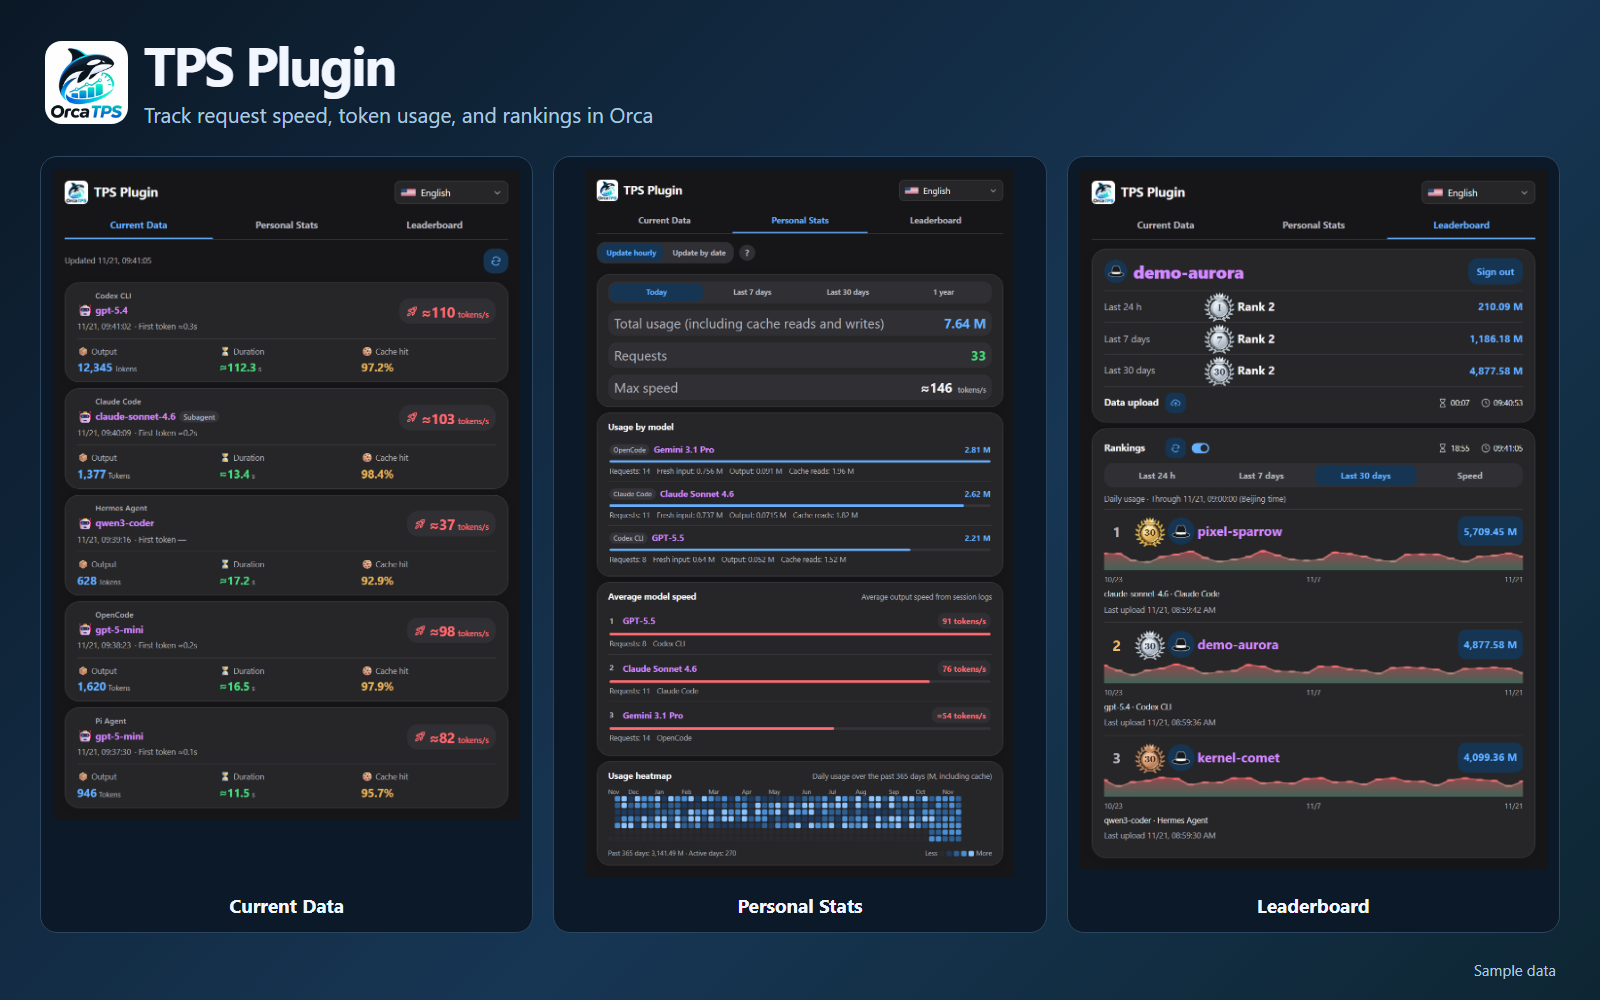
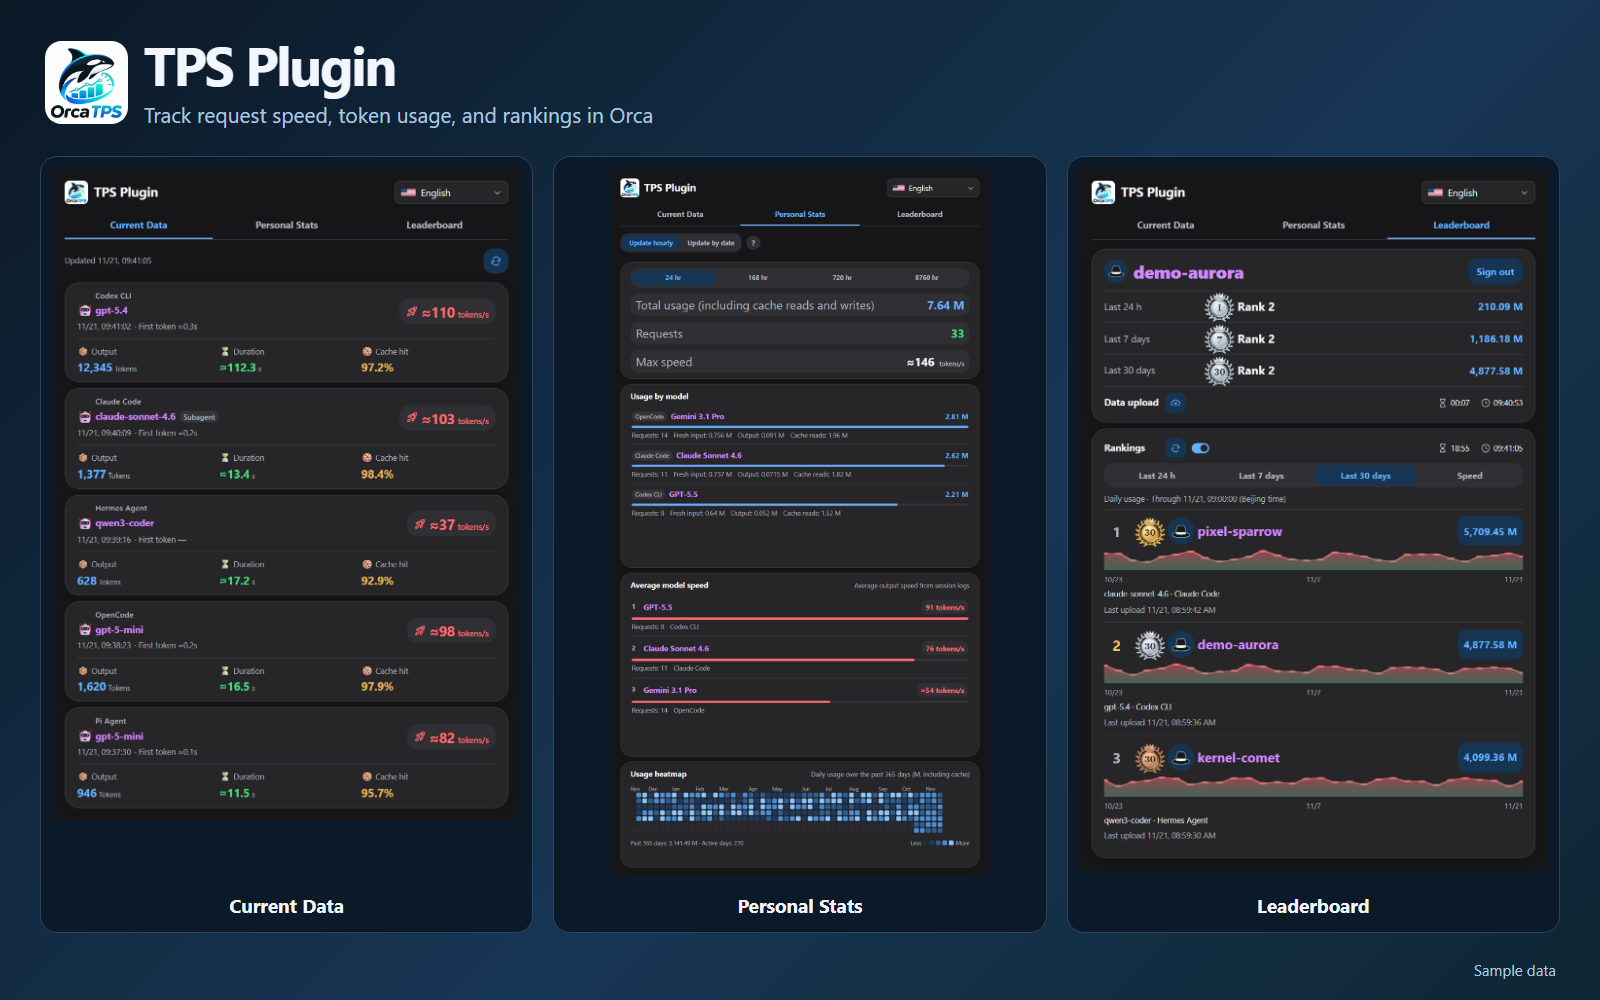
ui: refine Personal Stats periods and panel layout
Display each period in hours or days. Set a fixed 180px heatmap height and split the remaining space between the two scrollable rankings.

Changed region(s): [[0.375, 0.155, 0.625, 0.868]]

diff --git a/src/panel.html b/src/panel.html
@@ -130,6 +130,19 @@
     .panel-tab:focus-visible, .panel-view:focus-visible { outline: 2px solid var(--blue); outline-offset: 2px; }
     .panel-view { margin-top: 12px; }
     #usage, #leaderboard { display: grid; gap: 8px; }
+    #panel:has(> #usage:not([hidden])) {
+      display: grid; grid-template: auto auto minmax(0, 1fr) / minmax(0, 1fr);
+      block-size: calc(100dvh - 32px);
+    }
+    #usage { grid-template: auto auto minmax(0, 1fr) / minmax(0, 1fr); min-block-size: 0; }
+    .usage-breakdown {
+      display: grid; grid-template-rows: repeat(2, minmax(112px, 1fr)) 180px; gap: 8px;
+      min-inline-size: 0;
+    }
+    .usage-ranking, .heat { display: grid; min-inline-size: 0; }
+    .usage-ranking { grid-template-rows: auto minmax(0, 1fr); }
+    .usage-scroll { min-inline-size: 0; overflow-y: auto; scrollbar-width: thin; }
+    .usage-scroll:focus-visible { outline: 2px solid var(--blue); outline-offset: -2px; }
     .section-head { display: flex; align-items: baseline; justify-content: space-between; flex-wrap: wrap; gap: 2px 8px; }
     .section-title { margin: 0; color: var(--ink); font-size: 13px; line-height: 1.6; font-weight: 700; }
     .section-detail { margin: 0; color: var(--muted); font-size: 11px; }
@@ -464,8 +477,8 @@
     .rank-index { flex-shrink: 0; min-width: 14px; color: var(--muted); font-size: 11px; font-weight: 700; font-variant-numeric: tabular-nums; }
     .rank-tps { flex-shrink: 0; padding: 3px 7px; border-radius: 10px; color: var(--speed); background: var(--speed-bg); font-size: 12px; font-weight: 700; font-variant-numeric: tabular-nums; }
     #speed .war-fill { background: var(--speed); }
-    .heat { position: relative; min-width: 0; }
-    .heat-scroll { direction: ltr; margin: 8px -4px 0; padding: 0 4px 4px; overflow-x: auto; overflow-y: hidden; scrollbar-width: thin; }
+    .heat { position: relative; grid-template-rows: minmax(0, 1fr); }
+    .heat-scroll { direction: ltr; margin-top: 8px; padding-bottom: 4px; overflow-x: auto; overflow-y: hidden; scrollbar-width: thin; }
     .heat-canvas { position: relative; width: max-content; }
     .heat-months { position: relative; height: 13px; color: var(--muted); font-size: 9px; }
     .heat-months span { position: absolute; top: 0; white-space: nowrap; }
@@ -485,7 +498,7 @@
     .heat-legend .lv2 { background: var(--heat-2); }
     .heat-legend .lv3 { background: var(--heat-3); }
     .heat-legend .lv4 { background: var(--heat-4); }
-    .heat-tip { position: absolute; z-index: 5; max-width: 240px; padding: 5px 8px; border-radius: 8px; background: var(--ink); color: var(--surface); font-size: 11px; line-height: 1.4; white-space: nowrap; pointer-events: none; transform: translate(-50%, -100%); box-shadow: var(--shadow); }
+    .heat-tip { position: absolute; z-index: 5; max-width: min(240px, calc(100% - 8px)); padding: 5px 8px; border-radius: 8px; background: var(--ink); color: var(--surface); font-size: 11px; line-height: 1.4; pointer-events: none; transform: translate(-50%, -100%); box-shadow: var(--shadow); }
     .heat-tip[hidden] { display: none; }
     @media (max-width: 339px) {
       .metrics { gap: 6px; }
@@ -512,6 +525,10 @@
       .ladder-rows li { --ladder-row-gap: 6px; }
       .war-totals { gap: 6px; }
       .ladder-total { padding-inline: 6px; font-size: 12px; }
+    }
+    @media (max-width: 280px) {
+      .war-period-tabs { grid-template-columns: minmax(0, .85fr) repeat(2, minmax(0, 1fr)) minmax(0, 1.15fr); gap: 2px; }
+      .war-period-tabs .war-tab { padding-inline: 1px; font-size: 10px; }
     }
     @media (prefers-reduced-motion: reduce) {
       .refresh.is-busy svg { animation: none; }
@@ -678,10 +695,10 @@
       </div>
       <section class="war" id="war" data-i18n-aria-label="usage-overview">
         <div class="war-tabs war-period-tabs" role="tablist" data-i18n-aria-label="usage-period">
-          <button class="war-tab" type="button" role="tab" data-range="today" aria-selected="true" data-testid="range-today"><span data-i18n="today"></span></button>
-          <button class="war-tab" type="button" role="tab" data-range="week" aria-selected="false" data-testid="range-week"><span data-i18n="last-seven-days"></span></button>
-          <button class="war-tab" type="button" role="tab" data-range="month" aria-selected="false" data-testid="range-month"><span data-i18n="last-thirty-days"></span></button>
-          <button class="war-tab" type="button" role="tab" data-range="year" aria-selected="false" data-testid="range-year"><span data-i18n="last-year"></span></button>
+          <button class="war-tab" type="button" role="tab" data-range="today" data-days="1" aria-selected="true" data-testid="range-today"><span data-localized-text></span></button>
+          <button class="war-tab" type="button" role="tab" data-range="week" data-days="7" aria-selected="false" data-testid="range-week"><span data-localized-text></span></button>
+          <button class="war-tab" type="button" role="tab" data-range="month" data-days="30" aria-selected="false" data-testid="range-month"><span data-localized-text></span></button>
+          <button class="war-tab" type="button" role="tab" data-range="year" data-days="365" aria-selected="false" data-testid="range-year"><span data-localized-text></span></button>
         </div>
         <div class="war-totals">
           <div class="war-stat">
@@ -698,37 +715,45 @@
           </div>
         </div>
       </section>
-      <section class="war" aria-labelledby="war-model-title">
-        <h2 class="section-title" id="war-model-title"><span data-i18n="model-usage"></span></h2>
-        <ol class="war-rows" id="war-rows" data-testid="war-rows" data-i18n-aria-label="usage-by-agent-model"></ol>
-        <p class="war-empty" id="war-empty" data-testid="war-empty" hidden><span data-i18n="empty-usage"></span></p>
-      </section>
-      <section class="war" id="speed" aria-labelledby="speed-title" data-testid="speed">
-        <div class="section-head">
-          <h2 class="section-title" id="speed-title"><span data-i18n="average-model-speed"></span></h2>
-          <p class="section-detail"><span data-i18n="model-speed-description"></span></p>
-        </div>
-        <ol class="war-rows" id="speed-rows" data-testid="speed-rows" data-i18n-aria-label="model-speed-list"></ol>
-        <p class="war-empty" id="speed-empty" data-testid="speed-empty" hidden><span data-i18n="empty-model-speeds"></span></p>
-        <p class="war-note" id="speed-note" data-testid="speed-note" data-localized-text hidden></p>
-      </section>
-      <section class="heat" id="heat" aria-labelledby="heat-title" data-testid="heatmap">
-        <div class="section-head">
-          <h2 class="section-title" id="heat-title"><span data-i18n="usage-heatmap"></span></h2>
-          <p class="section-detail" id="heat-sub"><span data-i18n="heatmap-description"></span></p>
-        </div>
-        <div class="heat-scroll" id="heat-scroll" tabindex="0">
-          <div class="heat-canvas">
-            <div class="heat-months" id="heat-months" aria-hidden="true"></div>
-            <div class="heat-grid" id="heat-grid" role="img" data-i18n-aria-label="heatmap-label"></div>
+      <div class="usage-breakdown">
+        <section class="war usage-ranking" aria-labelledby="war-model-title">
+          <h2 class="section-title" id="war-model-title"><span data-i18n="model-usage"></span></h2>
+          <div class="usage-scroll" tabindex="0" aria-labelledby="war-model-title">
+            <ol class="war-rows" id="war-rows" data-testid="war-rows" data-i18n-aria-label="usage-by-agent-model"></ol>
+            <p class="war-empty" id="war-empty" data-testid="war-empty" hidden><span data-i18n="empty-usage"></span></p>
           </div>
-        </div>
-        <div class="heat-foot">
-          <span id="heat-total" data-testid="heat-total" data-localized-text></span>
-          <span class="heat-legend" aria-hidden="true"><span data-i18n="heatmap-less"></span> <i class="lv0"></i><i class="lv1"></i><i class="lv2"></i><i class="lv3"></i><i class="lv4"></i> <span data-i18n="heatmap-more"></span></span>
-        </div>
-        <div class="heat-tip" id="heat-tip" role="tooltip" data-localized-text hidden></div>
-      </section>
+        </section>
+        <section class="war usage-ranking" id="speed" aria-labelledby="speed-title" data-testid="speed">
+          <div class="section-head">
+            <h2 class="section-title" id="speed-title"><span data-i18n="average-model-speed"></span></h2>
+            <p class="section-detail"><span data-i18n="model-speed-description"></span></p>
+          </div>
+          <div class="usage-scroll" tabindex="0" aria-labelledby="speed-title">
+            <ol class="war-rows" id="speed-rows" data-testid="speed-rows" data-i18n-aria-label="model-speed-list"></ol>
+            <p class="war-empty" id="speed-empty" data-testid="speed-empty" hidden><span data-i18n="empty-model-speeds"></span></p>
+            <p class="war-note" id="speed-note" data-testid="speed-note" data-localized-text hidden></p>
+          </div>
+        </section>
+        <section class="heat" id="heat" aria-labelledby="heat-title" data-testid="heatmap">
+          <div class="usage-scroll" tabindex="0" aria-labelledby="heat-title">
+            <div class="section-head">
+              <h2 class="section-title" id="heat-title"><span data-i18n="usage-heatmap"></span></h2>
+              <p class="section-detail" id="heat-sub"><span data-i18n="heatmap-description"></span></p>
+            </div>
+            <div class="heat-scroll" id="heat-scroll" tabindex="0">
+              <div class="heat-canvas">
+                <div class="heat-months" id="heat-months" aria-hidden="true"></div>
+                <div class="heat-grid" id="heat-grid" role="img" data-i18n-aria-label="heatmap-label"></div>
+              </div>
+            </div>
+            <div class="heat-foot">
+              <span id="heat-total" data-testid="heat-total" data-localized-text></span>
+              <span class="heat-legend" aria-hidden="true"><span data-i18n="heatmap-less"></span> <i class="lv0"></i><i class="lv1"></i><i class="lv2"></i><i class="lv3"></i><i class="lv4"></i> <span data-i18n="heatmap-more"></span></span>
+            </div>
+          </div>
+          <div class="heat-tip" id="heat-tip" role="tooltip" data-localized-text hidden></div>
+        </section>
+      </div>
     </section>
     <section class="panel-view" id="current-data" role="tabpanel" aria-labelledby="tab-current" tabindex="0" hidden>
       <div class="panel-header">
@@ -1196,9 +1221,14 @@
       }
       function renderUsage() {
         if (disposed || usageGroup.hidden) return;
-        const windows = usageMode === 'hourly' ? usageSummary?.hourly?.windows : usageSummary?.windows;
+        const hourly = usageMode === 'hourly';
+        const windows = hourly ? usageSummary?.hourly?.windows : usageSummary?.windows;
         const range = windows?.[usageRange] ?? null;
+        const periodFormat = { style: 'unit', unit: hourly ? 'hour' : 'day', unitDisplay: 'short', useGrouping: false };
         for (const tab of usageRangeTabs) {
+          const days = Number(tab.dataset.days);
+          const label = locale.number(hourly ? days * 24 : days, periodFormat);
+          if (tab.firstElementChild.textContent !== label) tab.firstElementChild.textContent = label;
           tab.setAttribute('aria-selected', String(tab.dataset.range === usageRange));
         }
         byId('war-tokens').textContent = range ? formatMillionTokens(range.tokens) : '—';
@@ -1388,7 +1418,7 @@
         else heatTip.hidden = true;
       });
       byId('heat-grid').addEventListener('pointerleave', () => { heatTip.hidden = true; });
-      byId('heat-scroll').addEventListener('scroll', () => { heatTip.hidden = true; }, { passive: true });
+      byId('heat').addEventListener('scroll', () => { heatTip.hidden = true; }, { capture: true, passive: true });
       usageGroup.addEventListener('tps-view-opened', () => {
         renderUsage();
         const scroller = byId('heat-scroll');
